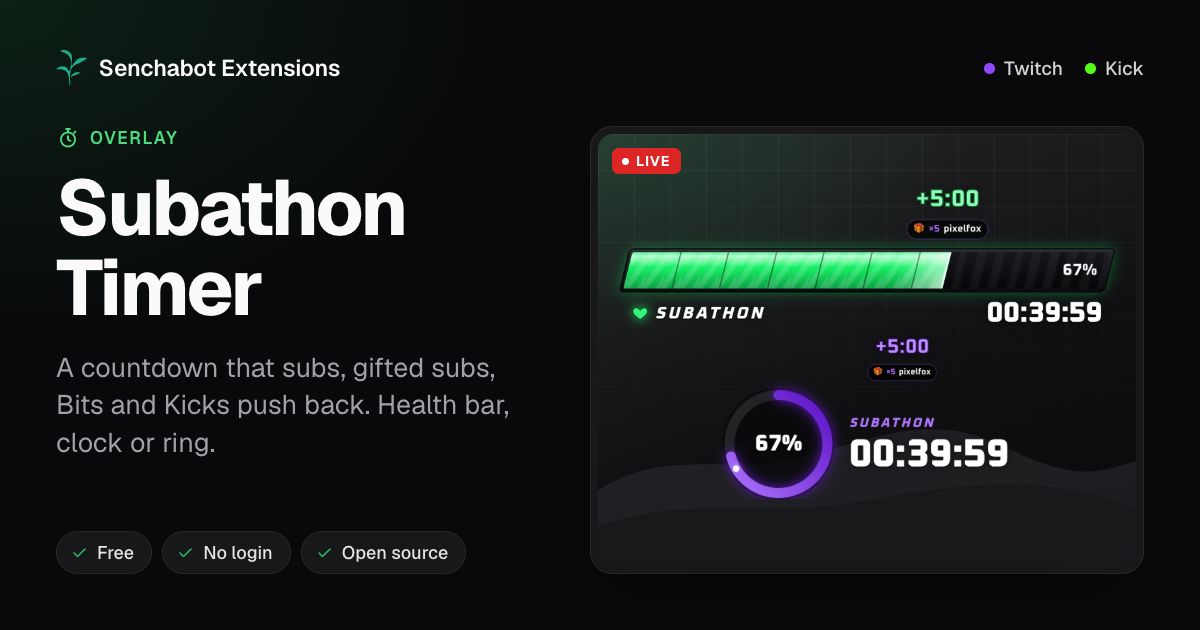
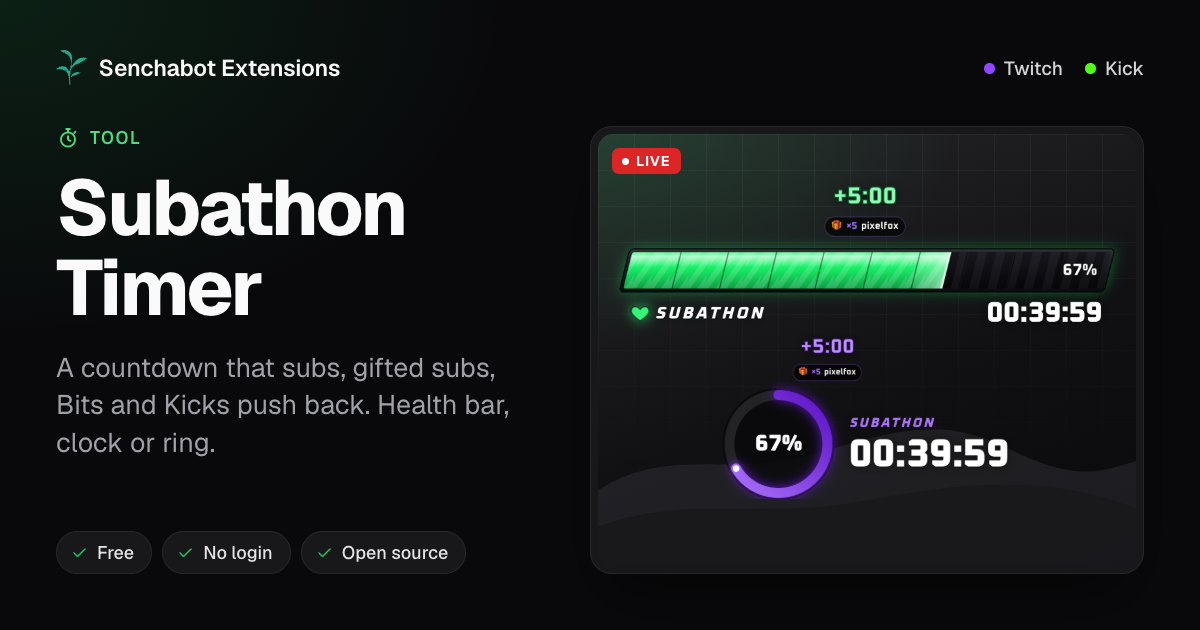
feat(extensions): move Subathon Timer from the overlays to the tools
Mods run the Subathon clock from chat, so it now sits with Raffle and OBS Bridge in the
header menu, footer, landing gallery, llms.txt, llms-full.txt and its OG card.

Landing gallery: a card's shape now comes from its live demo rather than its kind, so the
Subathon strip keeps its demo as a wide card over the other two tools, with three feature
chips like theirs. Each grid checks its own column counts, and a set one cell short widens
its last card: the four overlays fill 3x2 again with Chat Box tall and Stream Alerts wide.
The Tools lead line now covers tools run from chat.

en.ts, tr.ts and llms-full.txt also carry the copy for opt-in highlights from the previous
commit: the Chat Box guide says all five start off, and the highlights param defaults to none.

diff --git a/apps/extensions/src/components/landing/widget-card.tsx b/apps/extensions/src/components/landing/widget-card.tsx
@@ -9,13 +9,13 @@ import { FLUSH_FRAME_CLASS, STAGE_STYLE } from './stream-scene';
 import { TOOL_FEATURES, ToolVisual } from './tool-visuals';
 
 /**
- * Card shape in the gallery grid, from the overlay's browser-source size: a portrait source (a
+ * Card shape in the gallery grid, from the live demo's browser-source size: a portrait source (a
  * chat column) gets a card two rows tall, a strip (a timer bar) one two columns wide.
  */
 export type CardShape = 'standard' | 'tall' | 'wide';
 
 export function getCardShape(widget: WidgetEntry): CardShape {
-  const size = widget.kind === 'overlay' ? widget.sourceSize : null;
+  const size = widget.demoUrl ? widget.sourceSize : null;
   if (!size) return 'standard';
   const ratio = size.width / size.height;
   if (ratio < 1) return 'tall';
@@ -23,21 +23,30 @@ export function getCardShape(widget: WidgetEntry): CardShape {
   return 'standard';
 }
 
-/** True when the cards fill whole rows of both the 2- and the 3-column grid. */
-const fillsRows = (shapes: CardShape[]) =>
-  shapes.reduce((cells, shape) => cells + (shape === 'standard' ? 1 : 2), 0) % 6 === 0;
+/** True when the cards fill whole rows at every column count the grid uses. */
+const fillsRows = (shapes: CardShape[], columns: readonly number[]) => {
+  const cells = shapes.reduce((sum, shape) => sum + (shape === 'standard' ? 1 : 2), 0);
+  return columns.every((count) => cells % count === 0);
+};
 
 /**
- * Shapes for one gallery grid. A set that would leave a hole (say a fifth overlay) drops the wide
- * cards first, then the tall one, then every span, so the grid stays even instead of showing a
- * lone card. The tall chat column goes last: it reads as the gallery's anchor.
+ * Shapes for one gallery grid of the given column counts. A set one cell short (four overlays
+ * beside the tall chat column) widens its last standard card. One that would still leave a hole
+ * drops the wide cards first, then the tall one, then every span, so the grid stays even instead
+ * of showing a lone card. The tall chat column goes last: it reads as the gallery's anchor.
  */
-export function getGalleryShapes(widgets: readonly WidgetEntry[]): CardShape[] {
+export function getGalleryShapes(
+  widgets: readonly WidgetEntry[],
+  columns: readonly number[],
+): CardShape[] {
   const shapes = widgets.map(getCardShape);
-  if (fillsRows(shapes)) return shapes;
+  if (fillsRows(shapes, columns)) return shapes;
+  const last = shapes.lastIndexOf('standard');
+  const widened = shapes.map((shape, index) => (index === last ? 'wide' : shape));
+  if (last >= 0 && fillsRows(widened, columns)) return widened;
   for (const dropped of ['wide', 'tall'] as const) {
     const fewer = shapes.map((shape) => (shape === dropped ? 'standard' : shape));
-    if (fillsRows(fewer)) return fewer;
+    if (fillsRows(fewer, columns)) return fewer;
   }
   return shapes.map(() => 'standard');
 }
@@ -58,8 +67,8 @@ interface WidgetCardProps {
 }
 
 /**
- * Gallery card for one registry widget: a lazy live demo for overlays or a static picture with
- * feature chips for tools, then name, tagline and platforms. The whole card links to setup.
+ * Gallery card for one registry widget: a lazy live demo when it has one, or a static picture,
+ * then name, tagline, a tool's feature chips and platforms. The whole card links to setup.
  */
 export function WidgetCard({
   widget,
@@ -67,7 +76,7 @@ export function WidgetCard({
   shape = 'standard',
 }: WidgetCardProps) {
   const { t } = useI18n();
-  const isOverlay = widget.kind === 'overlay';
+  const hasDemo = Boolean(widget.demoUrl);
   const features = TOOL_FEATURES[widget.id];
   const name = t(widget.nameKey);
   const size = widget.sourceSize;
@@ -82,11 +91,11 @@ export function WidgetCard({
       <div
         className={`relative border-b border-zinc-200 dark:border-zinc-800 ${
           // Flatter on wide screens, so a tool card is as tall as an overlay row above it.
-          isOverlay ? PREVIEW_CLASS[shape] : 'aspect-[2/1] lg:aspect-[5/2]'
+          hasDemo ? PREVIEW_CLASS[shape] : 'aspect-[2/1] lg:aspect-[5/2]'
         }`}
         style={previewStyle}
       >
-        {isOverlay ? (
+        {hasDemo ? (
           <div className="absolute inset-0">
             <PreviewFrame
               src={getDemoSrc(widget, 'card')}

diff --git a/apps/extensions/src/components/landing/landing-helpers.test.ts b/apps/extensions/src/components/landing/landing-helpers.test.ts
@@ -28,9 +28,11 @@ describe('getDemoSrc', () => {
     expect(params.get('simulate')).toBe('true');
   });
 
-  it('gives every overlay a demo and no tool one', () => {
+  it('gives every overlay a demo, and of the tools only the Subathon Timer', () => {
     for (const widget of OVERLAYS) expect(getDemoSrc(widget), widget.id).not.toBe('');
-    for (const widget of TOOLS) expect(getDemoSrc(widget), widget.id).toBe('');
+    expect(TOOLS.filter((widget) => getDemoSrc(widget)).map((widget) => widget.id)).toEqual([
+      'subathon',
+    ]);
   });
 
   it('runs a bigger, busier chat in the tall gallery card than in the hero scene', () => {
@@ -46,40 +48,54 @@ describe('getDemoSrc', () => {
 });
 
 describe('gallery card shapes', () => {
-  // The four overlays the bento was drawn for: a tall Chat Box and a wide Subathon Timer.
+  // A tall Chat Box and a wide Subathon strip: the bento the gallery was drawn for.
   const BENTO = (['chat-box', 'emote-wall', 'sub-sprout', 'subathon'] as const).map(getWidget);
   const extra = (id: string, width: number, height: number) =>
     ({ ...getWidget('emote-wall'), id, sourceSize: { width, height } }) as WidgetEntry;
+  const OVERLAY_COLUMNS = [2, 3];
 
-  it('derives the shape from the source size', () => {
+  it('derives the shape from the live demo source size', () => {
     expect(OVERLAYS.map((widget) => [widget.id, getCardShape(widget)])).toEqual([
       ['chat-box', 'tall'],
       ['emote-wall', 'standard'],
       ['sub-sprout', 'standard'],
-      ['subathon', 'wide'],
       ['stream-alerts', 'standard'],
     ]);
-    for (const widget of TOOLS) expect(getCardShape(widget), widget.id).toBe('standard');
+    // Raffle's overlay has a size but no demo, so its card keeps the static picture.
+    expect(TOOLS.map((widget) => [widget.id, getCardShape(widget)])).toEqual([
+      ['subathon', 'wide'],
+      ['raffle', 'standard'],
+      ['obs-bridge', 'standard'],
+    ]);
   });
 
   it('keeps the bento spans while the overlays fill whole rows', () => {
-    expect(getGalleryShapes(BENTO)).toEqual(BENTO.map(getCardShape));
+    expect(getGalleryShapes(BENTO, OVERLAY_COLUMNS)).toEqual(BENTO.map(getCardShape));
+  });
+
+  it('widens the last standard card when the grid is one cell short', () => {
+    expect(getGalleryShapes(OVERLAYS, OVERLAY_COLUMNS)).toEqual([
+      'tall',
+      'standard',
+      'standard',
+      'wide',
+    ]);
+    // The tools grid only has two columns, so the Subathon strip spans the row above the others.
+    expect(getGalleryShapes(TOOLS, [2])).toEqual(['wide', 'standard', 'standard']);
   });
 
   it('drops the wide cards, then the tall one, then every span, when a new overlay would leave a hole', () => {
     // Five overlays: Chat Box stays tall beside a 2×2 of the rest.
-    expect(getGalleryShapes(OVERLAYS)).toEqual(['tall', ...Array(4).fill('standard')]);
+    const five = [...BENTO, getWidget('stream-alerts')];
+    expect(getGalleryShapes(five, OVERLAY_COLUMNS)).toEqual(['tall', ...Array(4).fill('standard')]);
     // Two strips and a column: flattening the strips leaves a hole, flattening the column doesn't.
     const [chat, emote, , subathon] = BENTO;
-    expect(getGalleryShapes([chat, subathon, extra('a', 800, 200), emote])).toEqual([
-      'standard',
-      'wide',
-      'wide',
-      'standard',
-    ]);
-    expect(getGalleryShapes([...BENTO, extra('a', 800, 200), extra('b', 800, 200)])).toEqual(
-      Array(6).fill('standard'),
-    );
+    expect(
+      getGalleryShapes([chat, subathon, extra('a', 800, 200), emote], OVERLAY_COLUMNS),
+    ).toEqual(['standard', 'wide', 'wide', 'standard']);
+    expect(
+      getGalleryShapes([...BENTO, extra('a', 800, 200), extra('b', 800, 200)], OVERLAY_COLUMNS),
+    ).toEqual(Array(6).fill('standard'));
   });
 });
 

diff --git a/apps/extensions/src/lib/i18n/tr.ts b/apps/extensions/src/lib/i18n/tr.ts
@@ -131,7 +131,7 @@ export const tr: typeof en = {
     galleryLead:
       'Her birinin canlı önizlemeli kendi ayar sayfası var. İndirmen gereken hiçbir şey yok.',
     overlaysLead: 'Sahneye ekledikten sonra kendi kendine çalışan tarayıcı kaynakları.',
-    toolsLead: 'Yayın sırasında senin kullandığın sayfalar.',
+    toolsLead: 'Yayın boyunca sayfadan ya da sohbetten senin yönettiğin araçlar.',
     setUp: 'Ayarla',
     toolFeatures: 'Özellikler',
     raffleFeatureKeyword: '!join gibi katılım komutu',
@@ -140,6 +140,9 @@ export const tr: typeof en = {
     obsFeatureScenes: 'Sohbetten sahne değiştir',
     obsFeatureCommands: 'Komut adlarını sen belirle',
     obsFeatureLocal: 'Yerel obs-websocket bağlantısı',
+    subathonFeatureChat: 'Sohbetten !subathon ile yönet',
+    subathonFeaturePlatforms: 'Twitch ve Kick için ayrı süreler',
+    subathonFeatureSaved: 'OBS kapansa da kalan süre korunur',
     visualScenes: 'Sahneler',
     howTitle: 'Nasıl çalışır?',
     howLead: 'Üç adım, hiçbirinde hesap açmak yok.',
@@ -1127,7 +1130,7 @@ export const tr: typeof en = {
         commands:
           'Komutları Gizle, "!" ile başlayan her mesajı gizler; `!discord` ya da `!uptime` gibi komutlar ekranı doldurmaz. Botun komuta verdiği cevabı da saklamak için iki ayarı birlikte aç.',
         highlights:
-          "Bunun tersine bazı mesajları öne çıkarmak için Vurgular var. Varsayılan olarak beşi de açık: kanalını etiketleyen ya da sana yanıt veren mesajlar, yanıtların üstündeki kime cevap verildiğini gösteren satır, sohbete ilk kez yazanlar, duyurular ve Mesajınızı Vurgulayın ile gönderilen mesajlar. Son üçü sadece Twitch'te var, çünkü Kick bu bilgileri göndermiyor.",
+          "Bunun tersine bazı mesajları öne çıkarmak için Vurgular var. Varsayılan olarak beşi de kapalı, istediklerini açman yeterli: kanalını etiketleyen ya da sana yanıt veren mesajlar, yanıtların üstündeki kime cevap verildiğini gösteren satır, sohbete ilk kez yazanlar, duyurular ve Mesajınızı Vurgulayın ile gönderilen mesajlar. Son üçü sadece Twitch'te var, çünkü Kick bu bilgileri göndermiyor.",
       },
       horizontal: {
         title: 'Sohbet ekranın altına şerit olarak nasıl konur?',

diff --git a/apps/extensions/src/lib/i18n/en.ts b/apps/extensions/src/lib/i18n/en.ts
@@ -126,7 +126,7 @@ export const en = {
     galleryTitle: 'Pick a widget',
     galleryLead: 'Each one has its own setup page with a live preview. Nothing to download.',
     overlaysLead: 'Browser sources that run on their own once they are in your scene.',
-    toolsLead: 'Pages you run yourself during the stream.',
+    toolsLead: 'Tools you run yourself during the stream, from a page or from chat.',
     setUp: 'Set up',
     toolFeatures: 'Features',
     raffleFeatureKeyword: 'Entry keyword like !join',
@@ -135,6 +135,9 @@ export const en = {
     obsFeatureScenes: 'Switch scenes from chat',
     obsFeatureCommands: 'Custom command names',
     obsFeatureLocal: 'Local obs-websocket connection',
+    subathonFeatureChat: 'Control it from chat with !subathon',
+    subathonFeaturePlatforms: 'Separate time settings for Twitch and Kick',
+    subathonFeatureSaved: 'Time left survives OBS restarts',
     visualScenes: 'Scenes',
     howTitle: 'How it works',
     howLead: 'Three steps, and none of them asks for an account.',
@@ -1115,7 +1118,7 @@ export const en = {
         commands:
           'Hide Commands hides every message that starts with "!", so commands like `!discord` or `!uptime` stay off your screen. To also hide what the bot replies to a command, turn on both settings.',
         highlights:
-          "To do the opposite and make certain messages stand out, use Highlights. All five are on by default: messages that tag your channel or reply to you, the line above a reply that shows who's being replied to, first-time chatters, announcements, and messages sent with Highlight My Message. The last three are Twitch only, because Kick doesn't send that info.",
+          "To do the opposite and make certain messages stand out, use Highlights. All five are off by default, so just turn on the ones you want: messages that tag your channel or reply to you, the line above a reply that shows who's being replied to, first-time chatters, announcements, and messages sent with Highlight My Message. The last three are Twitch only, because Kick doesn't send that info.",
       },
       horizontal: {
         title: 'How do you put chat along the bottom of the screen as a bar?',

diff --git a/apps/extensions/src/lib/widgets.ts b/apps/extensions/src/lib/widgets.ts
@@ -21,7 +21,7 @@ export type WidgetId =
   | 'stream-alerts'
   | 'raffle'
   | 'obs-bridge';
-/** `overlay`: a browser source that runs on its own. `tool`: a page the streamer operates. */
+/** `overlay`: a browser source that runs on its own. `tool`: something the streamer operates. */
 export type WidgetKind = 'overlay' | 'tool';
 export type WidgetPlatform = 'twitch' | 'kick';
 export type RoutePath = FileRouteTypes['to'];
@@ -88,18 +88,6 @@ export const WIDGETS: readonly WidgetEntry[] = [
     sourceSize: { width: 800, height: 600 },
   },
   {
-    id: 'subathon',
-    kind: 'overlay',
-    setupPath: '/setup/subathon-timer',
-    widgetPath: '/widgets/subathon',
-    nameKey: 'widgets.subathon.name',
-    taglineKey: 'widgets.subathon.tagline',
-    Icon: SubathonIcon,
-    platforms: ['twitch', 'kick'],
-    demoUrl: '/widgets/subathon?simulate=1',
-    sourceSize: { width: 800, height: 300 },
-  },
-  {
     id: 'stream-alerts',
     kind: 'overlay',
     setupPath: '/setup/stream-alerts',
@@ -110,6 +98,19 @@ export const WIDGETS: readonly WidgetEntry[] = [
     platforms: ['twitch', 'kick'],
     demoUrl: '/widgets/stream-alerts?simulate=1',
     sourceSize: { width: 800, height: 450 },
+  },
+  {
+    id: 'subathon',
+    // Mods run the clock from chat (start, pause, add time), so it sits with the tools.
+    kind: 'tool',
+    setupPath: '/setup/subathon-timer',
+    widgetPath: '/widgets/subathon',
+    nameKey: 'widgets.subathon.name',
+    taglineKey: 'widgets.subathon.tagline',
+    Icon: SubathonIcon,
+    platforms: ['twitch', 'kick'],
+    demoUrl: '/widgets/subathon?simulate=1',
+    sourceSize: { width: 800, height: 300 },
   },
   {
     id: 'raffle',

diff --git a/apps/extensions/src/routes/{-$locale}/index.tsx b/apps/extensions/src/routes/{-$locale}/index.tsx
@@ -216,21 +216,21 @@ function WorksWith() {
   );
 }
 
-// Card shapes come from getGalleryShapes: with five overlays Chat Box (portrait) spans two rows
-// beside a 2×2 of the rest, filling a 3×2 grid, or 2×3 on tablets. Dense flow backfills if a span
-// can't fit in a row.
+// Card shapes come from getGalleryShapes: Chat Box (portrait) spans two rows beside two overlays
+// and a wide Stream Alerts, filling a 3×2 grid, or 2×3 on tablets; the Subathon strip spans the
+// tools row above the other two. Dense flow backfills if a span can't fit in a row.
 const GALLERY_GROUPS = [
   {
     key: 'overlays',
     widgets: OVERLAYS,
-    shapes: getGalleryShapes(OVERLAYS),
+    shapes: getGalleryShapes(OVERLAYS, [2, 3]),
     lead: 'home.overlaysLead',
     columns: 'sm:grid-cols-2 lg:grid-cols-3',
   },
   {
     key: 'tools',
     widgets: TOOLS,
-    shapes: getGalleryShapes(TOOLS),
+    shapes: getGalleryShapes(TOOLS, [2]),
     lead: 'home.toolsLead',
     columns: 'sm:grid-cols-2',
   },

diff --git a/apps/extensions/src/lib/widgets.test.ts b/apps/extensions/src/lib/widgets.test.ts
@@ -25,13 +25,15 @@ describe('widget registry', () => {
     }
   });
 
-  it('gives demo URLs only to overlays, on their own widget route', () => {
-    for (const widget of OVERLAYS) {
+  it('gives every overlay a demo URL, and runs every demo on its own widget route', () => {
+    for (const widget of OVERLAYS) expect(widget.demoUrl, widget.id).not.toBeNull();
+    for (const widget of WIDGETS.filter((entry) => entry.demoUrl)) {
       expect(widget.demoUrl, widget.id).toMatch(new RegExp(`^${widget.widgetPath}\\?`));
     }
-    for (const widget of TOOLS) {
-      expect(widget.demoUrl, widget.id).toBeNull();
-    }
+    // A tool's demo is its on-stream part; the Subathon clock is the only one with one.
+    expect(TOOLS.filter((widget) => widget.demoUrl).map((widget) => widget.id)).toEqual([
+      'subathon',
+    ]);
   });
 
   it('gives every overlay a browser-source size', () => {

diff --git a/apps/extensions/src/components/landing/tool-visuals.tsx b/apps/extensions/src/components/landing/tool-visuals.tsx
@@ -6,6 +6,11 @@ import type { WidgetId } from '#/lib/widgets';
 export const TOOL_FEATURES: Partial<Record<WidgetId, readonly TranslationKey[]>> = {
   raffle: ['home.raffleFeatureKeyword', 'home.raffleFeatureSubs', 'home.raffleFeatureDuration'],
   'obs-bridge': ['home.obsFeatureScenes', 'home.obsFeatureCommands', 'home.obsFeatureLocal'],
+  subathon: [
+    'home.subathonFeatureChat',
+    'home.subathonFeaturePlatforms',
+    'home.subathonFeatureSaved',
+  ],
 };
 
 const CHAT_ROW = { x: 24, width: 172, height: 28, gap: 8 };
